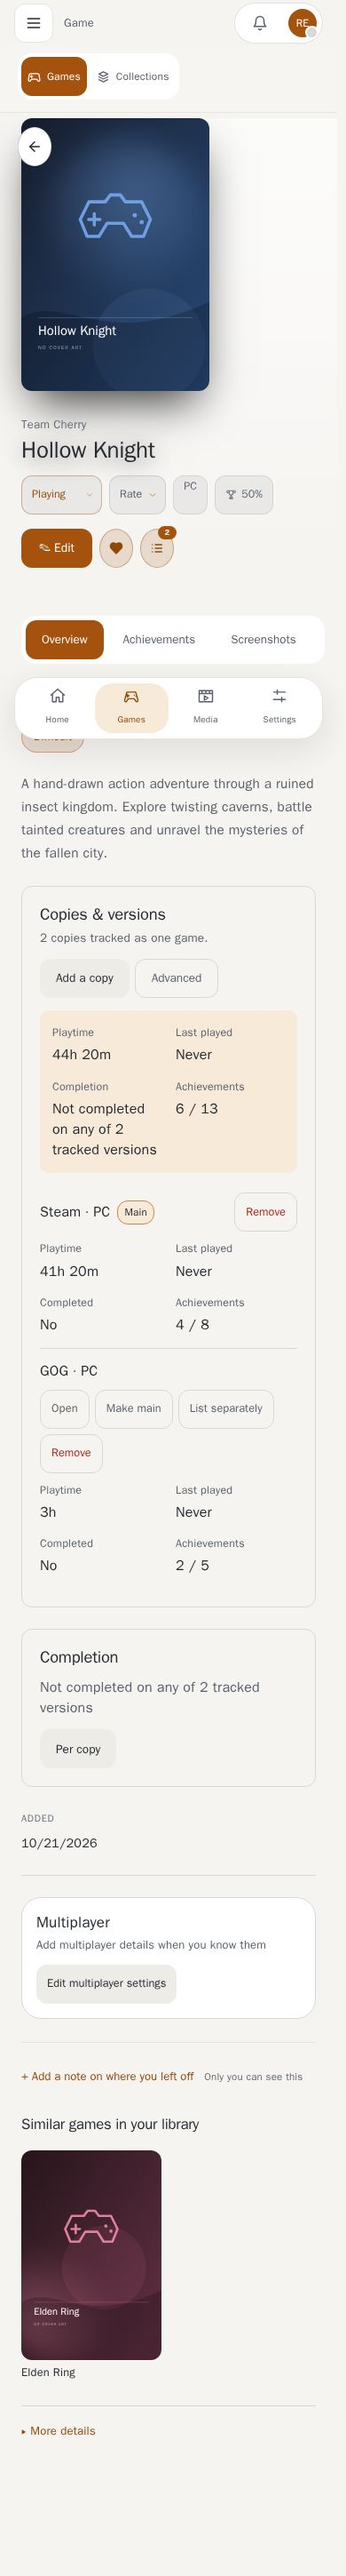
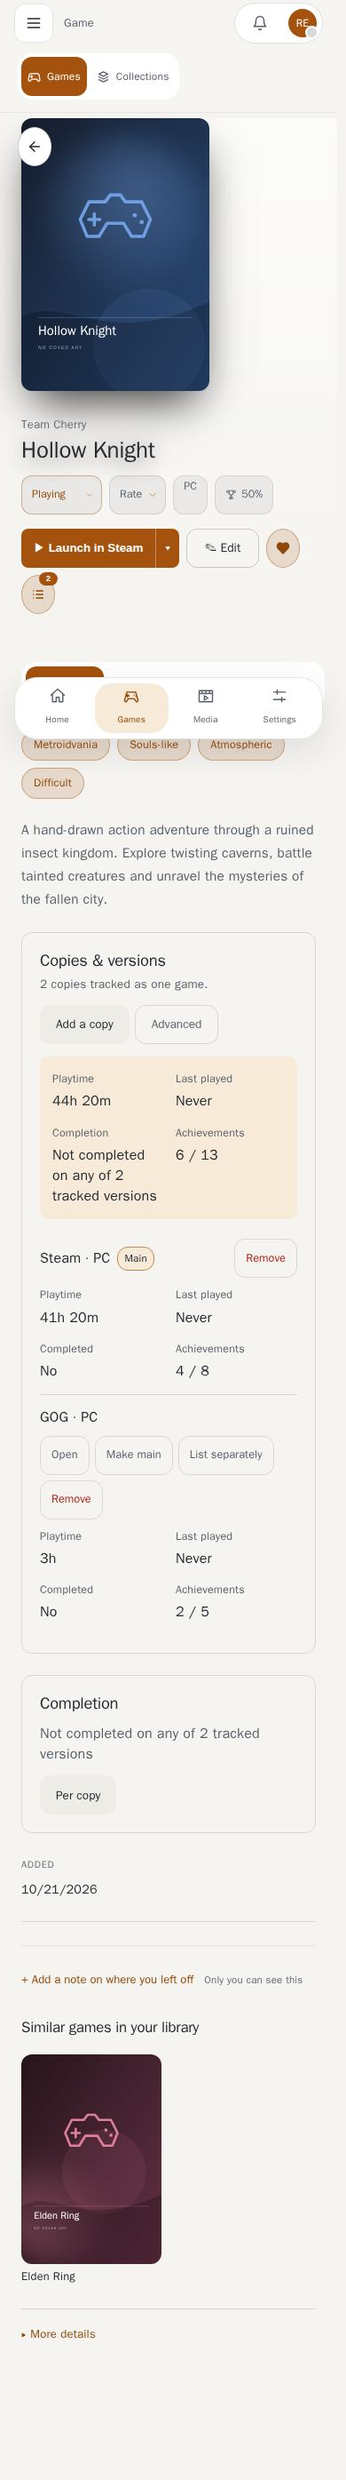
feat: move multiplayer into Edit and separate the primary hero action
Multiplayer settings are no longer a panel on the Overview (they stay in the Play tab of the Edit
form). With a launch button the hero has one primary action: Edit steps back to an outline, and
the action row wraps instead of squeezing labels on phones.

diff --git a/src/frontend/src/styles/pages/game-detail-layout.css b/src/frontend/src/styles/pages/game-detail-layout.css
@@ -231,6 +231,7 @@
 
 .game-detail-page .action-row {
   display: flex;
+  flex-wrap: wrap;
   align-items: center;
   gap: 8px;
 }
@@ -249,6 +250,18 @@
   display: flex;
   align-items: center;
   gap: 6px;
+  white-space: nowrap;
+}
+
+/* With a launch button the page has one primary action: Edit steps back to an outline */
+.game-detail-page .action-row:has(.launch-group) .edit-btn {
+  background: transparent;
+  color: var(--ui-text);
+  border: 1px solid color-mix(in srgb, var(--ui-text) 22%, transparent);
+}
+
+.game-detail-page .action-row:has(.launch-group) .edit-btn:hover {
+  border-color: color-mix(in srgb, var(--ui-accent) 55%, transparent);
 }
 
 .game-detail-page .icon-btn {

diff --git a/src/frontend/src/views/GameDetail.vue b/src/frontend/src/views/GameDetail.vue
@@ -22,7 +22,6 @@ import {
   KIND_LABEL,
 } from "../utils/achievements";
 import type { AchFilter } from "../composables/useGameAchievements";
-import GamePlayPanel from "../components/game/GamePlayPanel.vue";
 import GameLaunchButton from "../components/game/GameLaunchButton.vue";
 import GameVersionsPanel from "../components/game/GameVersionsPanel.vue";
 import GameManualTrackingPanel from "../components/game/GameManualTrackingPanel.vue";
@@ -576,8 +575,6 @@ async function onCopiesChanged() {
           </div>
         </div>
       </div>
-
-      <GamePlayPanel :game="game" @saved="onGameSaved" />
 
       <section
         v-if="

diff --git a/wiki/docs/user-guide/games.md b/wiki/docs/user-guide/games.md
@@ -519,8 +519,7 @@ Clicking a game opens its page. The header holds the cover, title, status,
 score, favorite heart and collections button, and below it are the tabs:
 
 - **Overview**: what the game is first (genres and description), then the
-  copies and their numbers, your completion, multiplayer details and where you
-  left off.
+  copies and their numbers, your completion and where you left off.
 - **Achievements**, **Screenshots**, **Clips**, **Soundtrack**, **Saves**,
   **Docs** and **Notes**. See [Game Media and Files](game-media.md) and
   [Game Notes](game-notes.md).
@@ -576,14 +575,13 @@ supported yet.
 
 ### Multiplayer settings
 
-On **Overview**, choose **Edit multiplayer settings**. Tick **Playable with
+Choose **Edit** on the game page and open the **Play** tab. Tick **Playable with
 others** and save to mark multiplayer without supplying extra details. Exact
 player limits remain unknown. Enable **Set known player limits** to enter both
 minimum and maximum, or choose a common range. Session duration and confirmed
-crossplay are optional. These details are self-reported and also available in
-the game's ordinary Edit form.
+crossplay are optional. These details are self-reported. They live in the Edit
+form only; the Overview no longer carries a multiplayer panel.
 
-![Multiplayer settings on a game page](../images/game-multiplayer-editor.jpg)
 
 For several games, select them in the library and open **Bulk Edit**. Tick
 **Apply multiplayer settings** and review the replacement before saving. It
